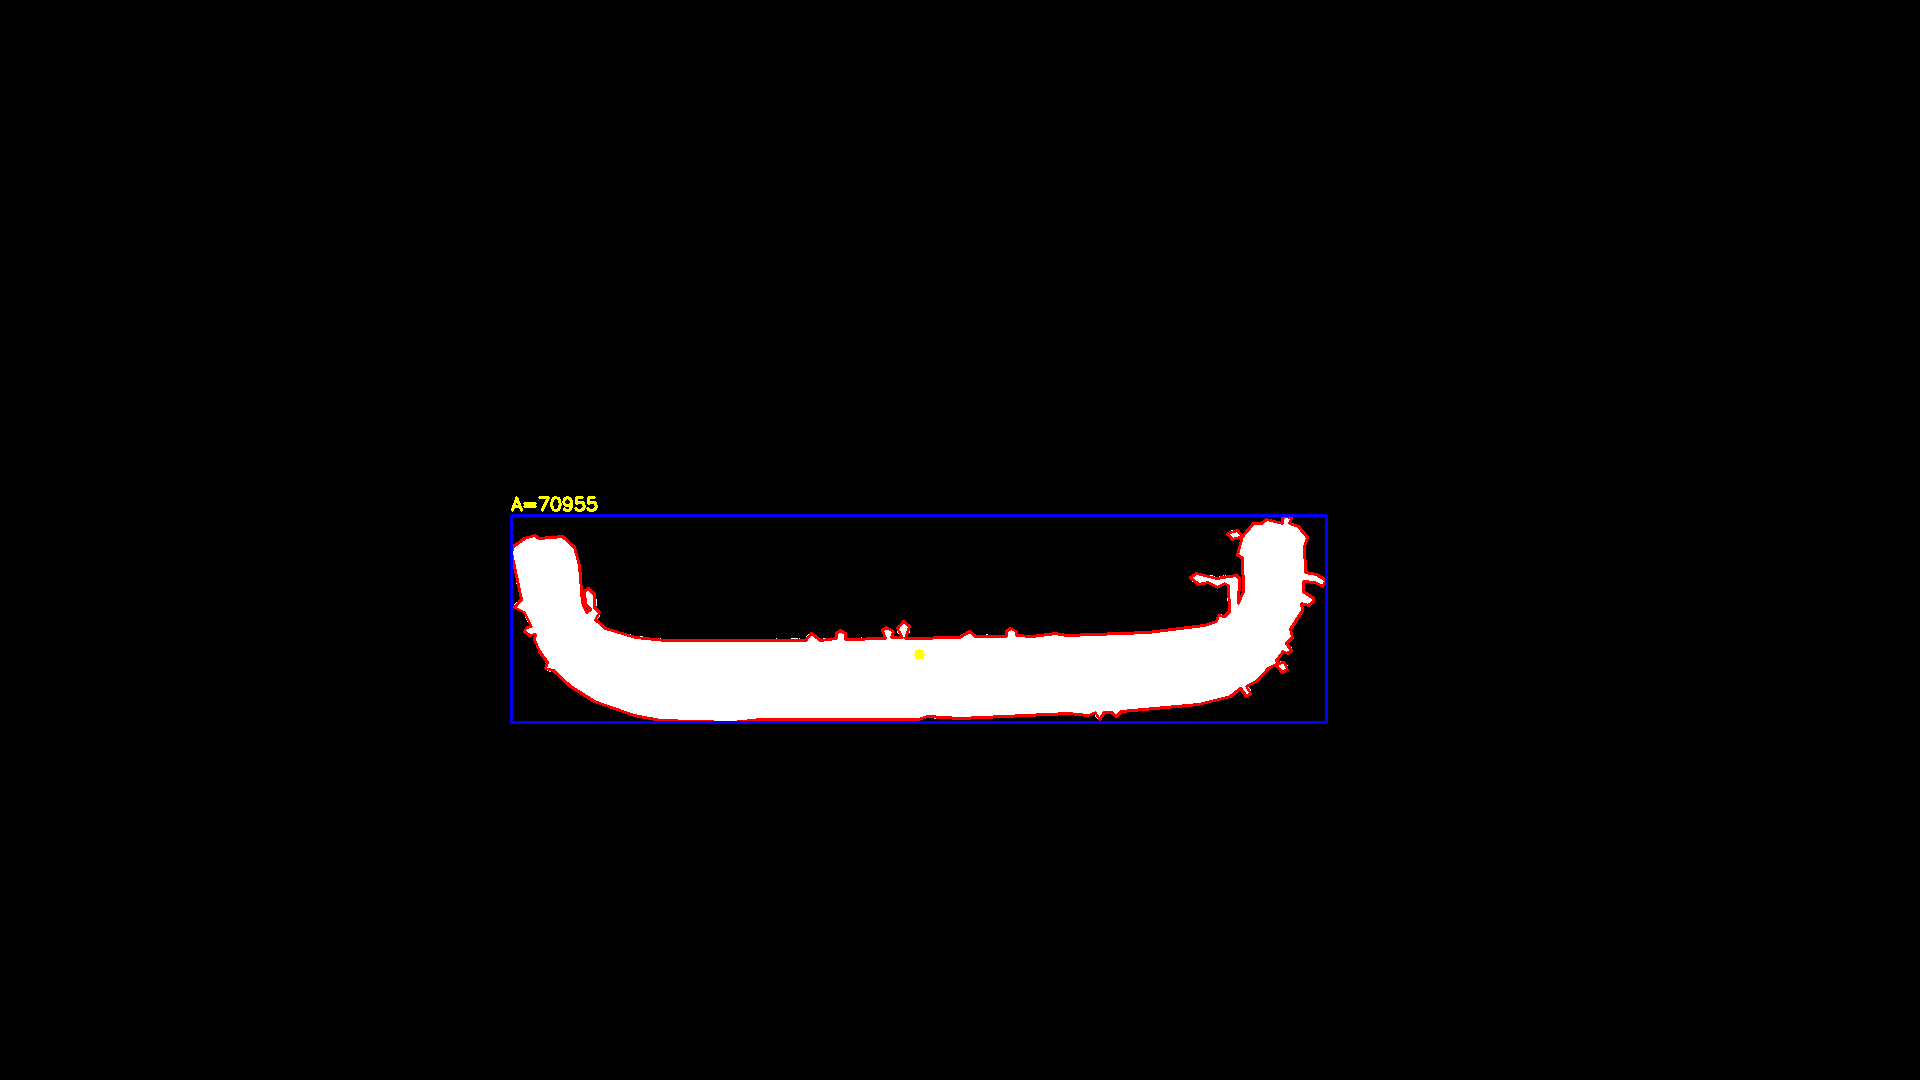
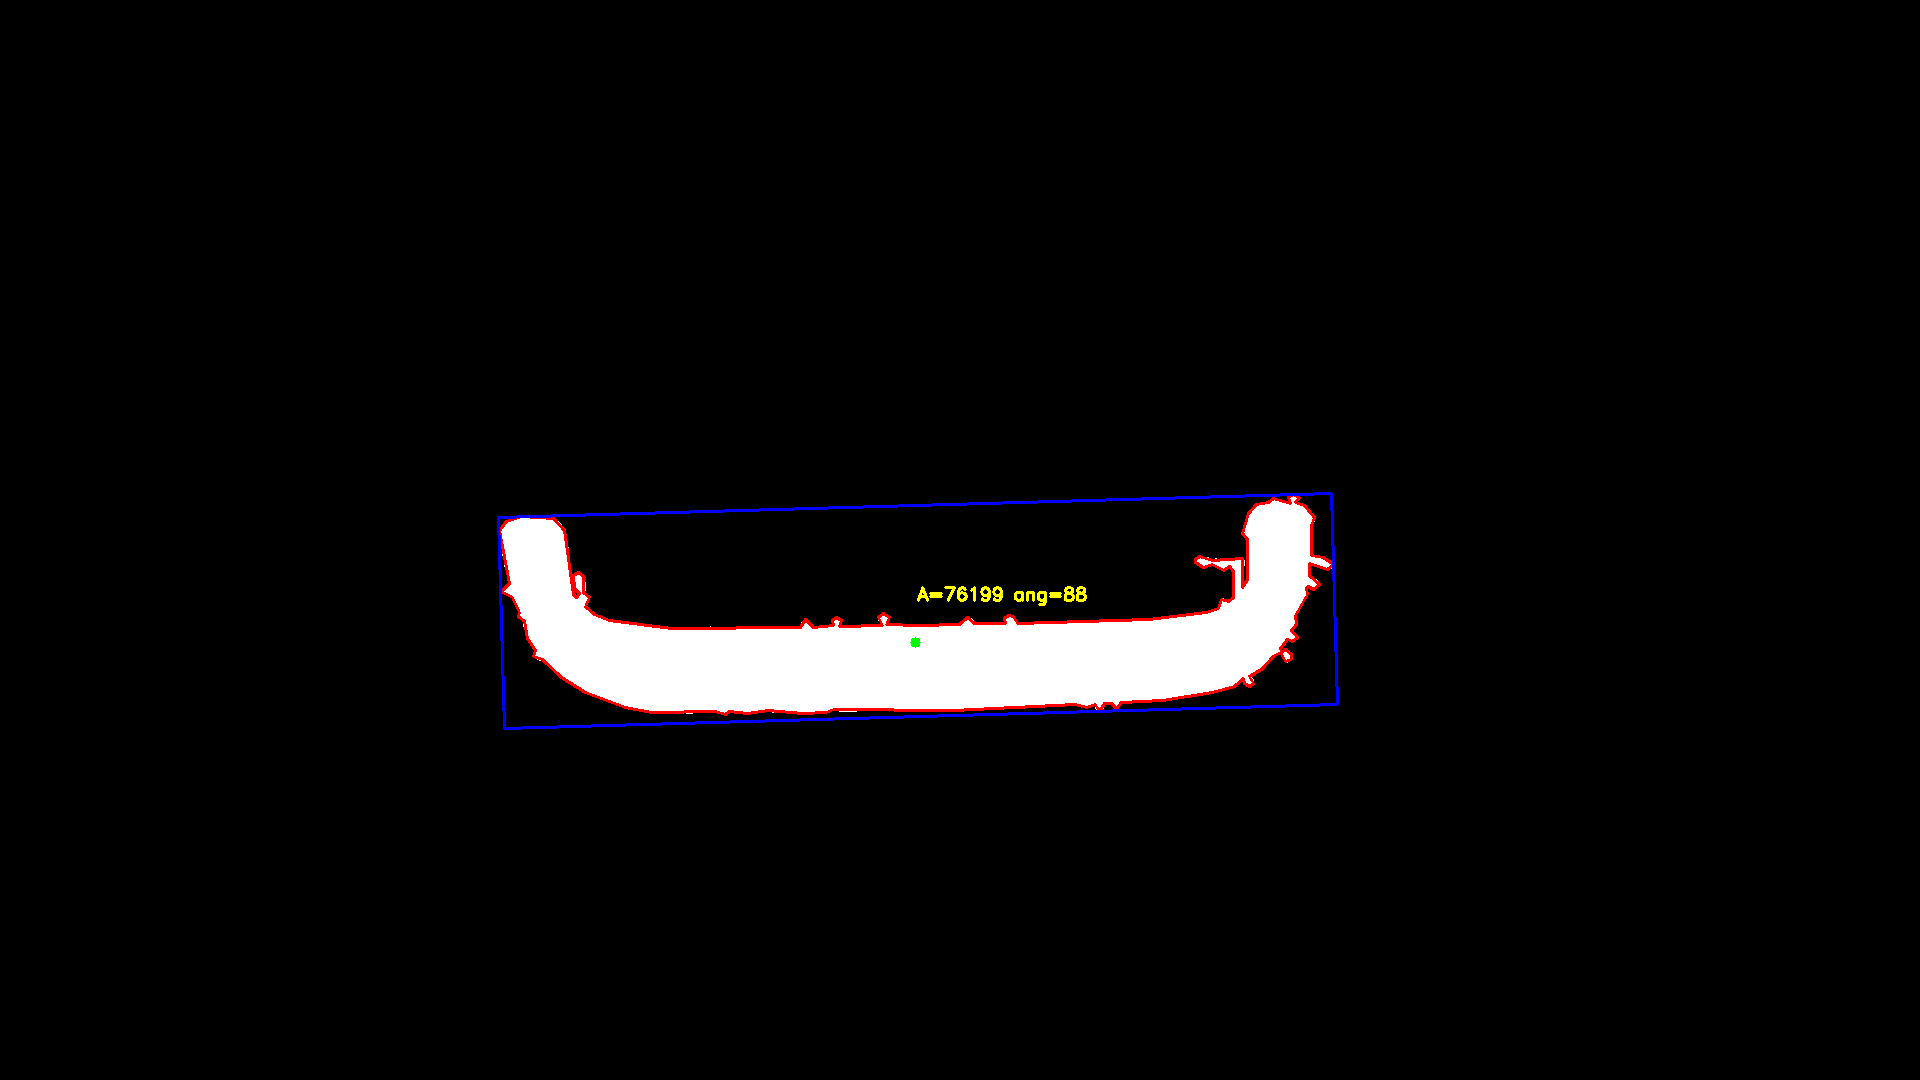
ult version

Changed region(s): [[0.25, 0.4583, 0.7188, 0.6722]]

diff --git a/interfaz_robot/interfaz_robot.cpp b/interfaz_robot/interfaz_robot.cpp
@@ -154,15 +154,13 @@ void interfaz_robot::GuardarImagen()
 
 void interfaz_robot::CalibrarCamara()
 {
-    //// Lista de archivos de calibración
+    // Lista de archivos de calibración
     std::vector<std::string> archivos = {
-     "calib_camara_01.png","calib_camara_02.png", "calib_camara_03.png" "calib_camara_04.png", "calib_camara_05.png",
+    "calib_camara_01.png", "calib_camara_02.png", "calib_camara_03.png", "calib_camara_04.png", "calib_camara_05.png",
     "calib_camara_06.png", "calib_camara_07.png", "calib_camara_08.png", "calib_camara_09.png", "calib_camara_10.png",
     "calib_camara_11.png", "calib_camara_12.png", "calib_camara_13.png", "calib_camara_14.png", "calib_camara_15.png",
-     "calib_camara_16.png", "calib_camara_17.png", "calib_camara_18.png", "calib_camara_19.png", "calib_camara_20.png",
+    "calib_camara_16.png", "calib_camara_17.png", "calib_camara_18.png", "calib_camara_19.png", "calib_camara_20.png",
     "calib_camara_21.png", "calib_camara_22.png", "calib_camara_23.png", "calib_camara_24.png"
-   
-    
     };
 
     calibrateCameraFromFiles(archivos);  // Llamada a la función
@@ -248,11 +246,11 @@ void interfaz_robot::MoverTodosLosEjes()
         }
     }
 
-    // Construir el comando tipo: #a-45-0-30-90--30-60*
+    // Construir el comando tipo: #a45,0,30,90,-30,60*
     QString comando = "#a";
     for (int i = 0; i < 6; ++i) {
         comando += QString::number(angulos[i]);
-        if (i < 5) comando += "-";
+        if (i < 5) comando += ",";
     }
     comando += "*";
 
@@ -498,11 +496,19 @@ void interfaz_robot::CalibrarCamaraRobot()
 //    ui.lbimagen->clear();  // Limpiar la QLabel
 //}
 
+
+
+
+
+
+
+
 cv::Mat interfaz_robot::ProcesarImagen() {
     namespace fs = std::filesystem;
     fs::path rutaEjecutable = fs::current_path();
     std::vector<fs::path> imagenes;
 
+    // Buscar imágenes "pieza_*.png" no segmentadas
     for (const auto& entry : fs::directory_iterator(rutaEjecutable)) {
         std::string nombre = entry.path().filename().string();
         if (nombre.rfind("pieza_", 0) == 0 &&
@@ -528,20 +534,20 @@ cv::Mat interfaz_robot::ProcesarImagen() {
             continue;
         }
 
-        // === 1. Recortar y reescalar ===
+        // Recortar y reescalar
         cv::Mat procesada = recortarYReescalar(img);
         if (procesada.empty()) {
             std::cerr << "Error: resultado vacío tras recortarYReescalar.\n";
             continue;
         }
 
-        // === 2. Escala de grises y suavizado ===
+        // Escala de grises y suavizado
         cv::Mat gris;
         cv::cvtColor(procesada, gris, cv::COLOR_BGR2GRAY);
         cv::GaussianBlur(gris, gris, cv::Size(5, 5), 0);
         cv::medianBlur(gris, gris, 5);
 
-        // === 3. Umbral adaptativo ===
+        // Umbral adaptativo
         cv::Mat binaria;
         cv::adaptiveThreshold(
             gris, binaria, 255,
@@ -549,7 +555,7 @@ cv::Mat interfaz_robot::ProcesarImagen() {
             cv::THRESH_BINARY_INV, 21, 3
         );
 
-        // === 4. Morfología (limpieza) ===
+        // Morfología (limpieza)
         cv::morphologyEx(binaria, binaria, cv::MORPH_CLOSE,
             cv::getStructuringElement(cv::MORPH_ELLIPSE, cv::Size(7, 7)));
         cv::morphologyEx(binaria, binaria, cv::MORPH_OPEN,
@@ -557,14 +563,14 @@ cv::Mat interfaz_robot::ProcesarImagen() {
         cv::dilate(binaria, binaria,
             cv::getStructuringElement(cv::MORPH_ELLIPSE, cv::Size(7, 7)));
 
-        // === 5. Contornos ===
+        // Contornos
         std::vector<std::vector<cv::Point>> contornos;
         cv::findContours(binaria.clone(), contornos, cv::RETR_EXTERNAL, cv::CHAIN_APPROX_SIMPLE);
 
         cv::Mat salidaBinaria = cv::Mat::zeros(binaria.size(), CV_8UC1);
-        const double areaMinima = 20000.0;
+        const double areaMinima = 14000.0;
 
-        std::vector<cv::Rect> bboxesValidas;
+        std::vector<cv::RotatedRect> cajasRotadas;
         std::vector<double> areasValidas;
         std::vector<std::vector<cv::Point>> contornosValidos;
 
@@ -572,52 +578,56 @@ cv::Mat interfaz_robot::ProcesarImagen() {
             double area = cv::contourArea(c);
             if (area >= areaMinima) {
                 cv::drawContours(salidaBinaria, std::vector<std::vector<cv::Point>>{c}, -1, 255, cv::FILLED);
-                bboxesValidas.push_back(cv::boundingRect(c));
+                cv::RotatedRect box = cv::minAreaRect(c);
+                cajasRotadas.push_back(box);
                 areasValidas.push_back(area);
                 contornosValidos.push_back(c);
             }
         }
 
-        std::cout << "Objetos detectados: " << bboxesValidas.size() << std::endl;
+        std::cout << "Objetos detectados: " << cajasRotadas.size() << std::endl;
 
-        // === 6. Imagen final color ===
+        // Imagen final color
         cv::Mat salidaFinal;
         cv::cvtColor(salidaBinaria, salidaFinal, cv::COLOR_GRAY2BGR);
 
-        for (size_t i = 0; i < bboxesValidas.size(); ++i) {
-
-            // --- 6.1 Suavizado del contorno ---
+        for (size_t i = 0; i < cajasRotadas.size(); ++i) {
+            // Contorno suavizado
             std::vector<cv::Point> contornoSuave;
             cv::approxPolyDP(contornosValidos[i], contornoSuave, 2.0, true);
 
             // Contorno rojo
             cv::drawContours(salidaFinal, std::vector<std::vector<cv::Point>>{contornoSuave}, -1, cv::Scalar(0, 0, 255), 2);
 
-            // Bounding box azul
-            cv::rectangle(salidaFinal, bboxesValidas[i], cv::Scalar(255, 0, 0), 2);
+            // Rectángulo rotado azul
+            cv::Point2f vertices[4];
+            cajasRotadas[i].points(vertices);
+            for (int j = 0; j < 4; j++) {
+                cv::line(salidaFinal, vertices[j], vertices[(j + 1) % 4], cv::Scalar(255, 0, 0), 2);
+            }
 
-            // --- 6.2 Centroide ---
+            // Centroide
             cv::Moments m = cv::moments(contornosValidos[i]);
             int cx = static_cast<int>(m.m10 / m.m00);
             int cy = static_cast<int>(m.m01 / m.m00);
-            cv::circle(salidaFinal, cv::Point(cx, cy), 5, cv::Scalar(0, 255, 255), -1);
+            cv::circle(salidaFinal, cv::Point(cx, cy), 5, cv::Scalar(0, 255, 0), -1);
 
-            // Texto área + centroide
-            std::string texto = "A=" + std::to_string(static_cast<int>(areasValidas[i]));
+            // Texto área + ángulo
+            std::string texto = "A=" + std::to_string(static_cast<int>(areasValidas[i])) +
+                " ang=" + std::to_string(static_cast<int>(cajasRotadas[i].angle));
             cv::putText(salidaFinal, texto,
-                cv::Point(bboxesValidas[i].x, bboxesValidas[i].y - 5),
+                cv::Point(static_cast<int>(cajasRotadas[i].center.x), static_cast<int>(cajasRotadas[i].center.y) - 10),
                 cv::FONT_HERSHEY_SIMPLEX, 0.6,
                 cv::Scalar(0, 255, 255), 2);
 
             std::cout << "Objeto " << i + 1
                 << " -> Area=" << static_cast<int>(areasValidas[i])
-                << "  BBox(" << bboxesValidas[i].x << ", " << bboxesValidas[i].y
-                << ", " << bboxesValidas[i].width << "x" << bboxesValidas[i].height << ")"
-                << "  Centroide(" << cx << "," << cy << ")"
+                << "  Centro(" << cx << "," << cy << ")"
+                << "  Ángulo=" << cajasRotadas[i].angle
                 << std::endl;
         }
 
-        // === 7. Guardar imagen final ===
+        // Guardar imagen final
         fs::path rutaSalida = rutaImagen.parent_path() /
             (rutaImagen.stem().string() + "_segmentada.png");
         cv::imwrite(rutaSalida.string(), salidaFinal);
@@ -627,6 +637,7 @@ cv::Mat interfaz_robot::ProcesarImagen() {
 
     return ultimaProcesada;
 }
+
 
 
 

diff --git a/interfaz_robot/procesado.cpp b/interfaz_robot/procesado.cpp
@@ -10,10 +10,10 @@ using namespace std;
 cv::Mat recortarYReescalar(const cv::Mat& imagenOriginal) {
     // Puntos de la imagen original que queremos mapear
     std::vector<cv::Point2f> srcPoints = {
-        cv::Point2f(473, 140),   // superior izquierda
-        cv::Point2f(1339, 152),   // superior derecha
-        cv::Point2f(295, 938),   // inferior izquierda
-        cv::Point2f(1495, 933)   // inferior derecha
+        cv::Point2f(480, 173),   // superior izquierda
+        cv::Point2f(1330, 183),   // superior derecha
+        cv::Point2f(310, 926),   // inferior izquierda
+        cv::Point2f(1490, 922)   // inferior derecha
     };
 
     // Puntos destino (esquinas de la nueva imagen)

diff --git a/interfaz_robot/com_robot.cpp b/interfaz_robot/com_robot.cpp
@@ -28,7 +28,7 @@ Ccom_robot::~Ccom_robot()
 void Ccom_robot::mover(int eje, int angulo)
 {
 	QString comando;
-	comando = "#m" + QString::number(eje) + "-" + QString::number(angulo) + "*";
+	comando = "#m" + QString::number(eje) + "," + QString::number(angulo) + "*";
 	m_serial.write(comando.toLatin1().data());
 }
 
